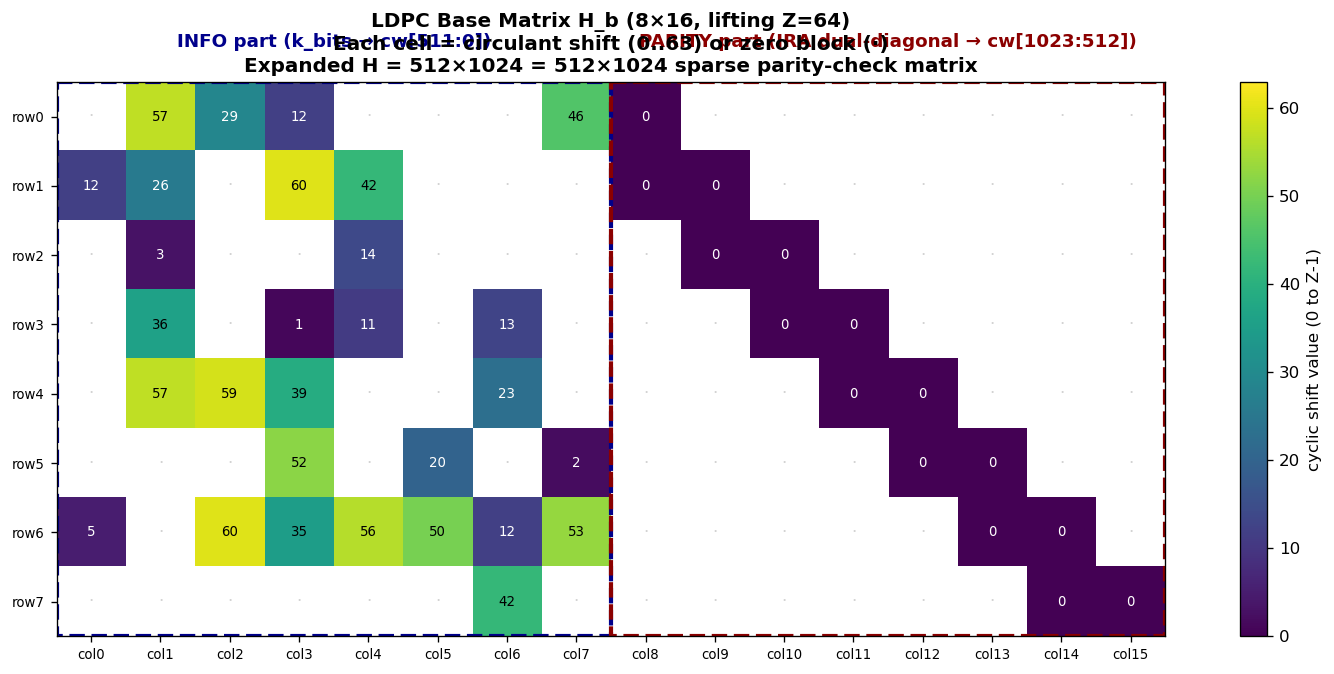
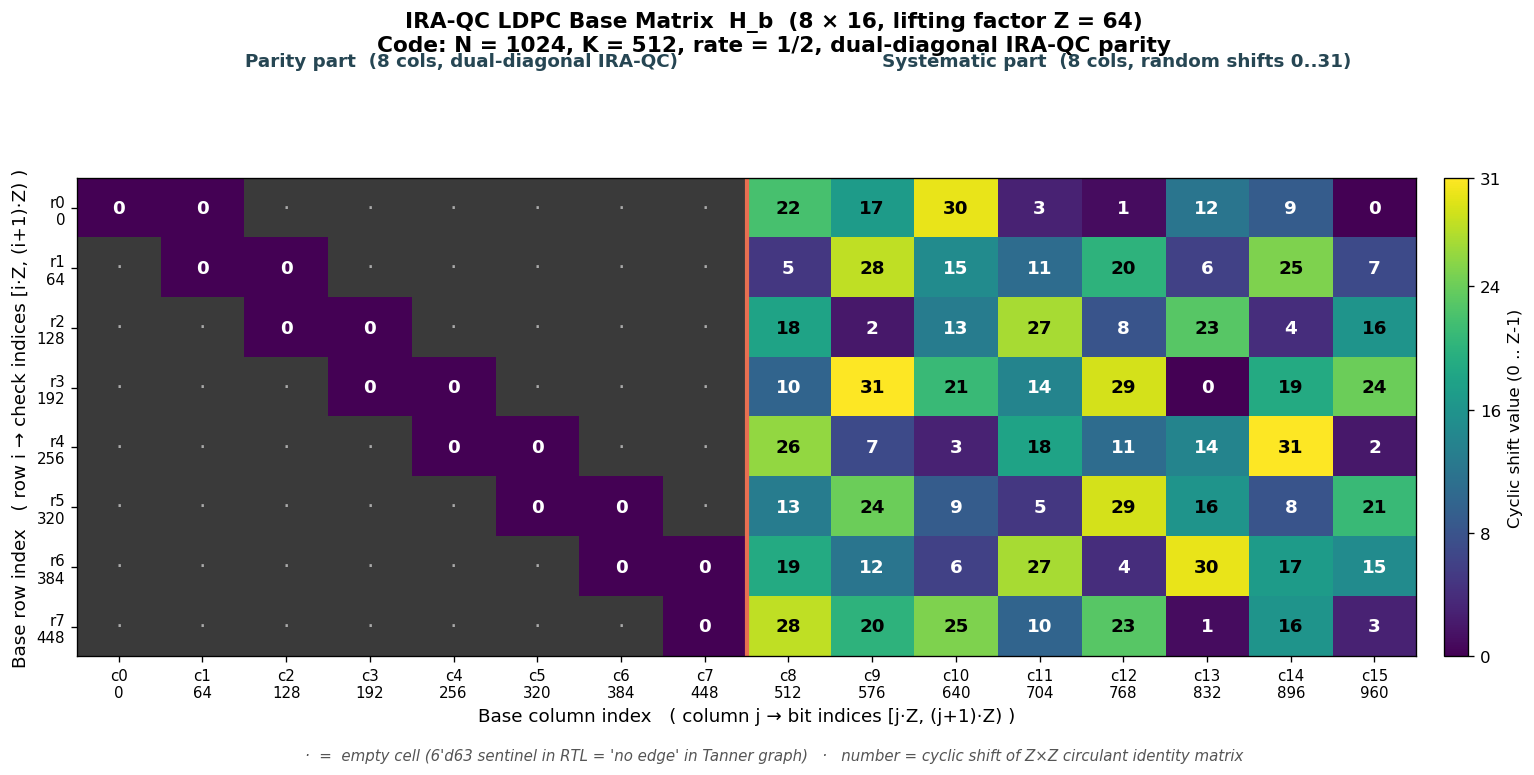
sim: standalone Python scripts for LDPC base matrix + QPSK constellation diagrams
新增独立绘图脚本(取代之前内嵌于 gen_missing_diagrams.py 的版本):

- simulation/plot_ldpc_base_matrix.py
    8 × 16 IRA-QC LDPC 基矩阵 H_b heatmap
    数据严格从 ldpc_decoder.v line 25-51 复制
    Z = 64, N = 1024, K = 512, rate 1/2
    左 8 列 parity (双对角线), 右 8 列 systematic (shifts 0..31)
    79 个有效 cell, 49 个 -1 (空) sentinel

- simulation/plot_qpsk_constellation.py
    固定幅度 QPSK 星座, A = 1/√2 × 2^13 = 5793
    Q1.14 fixed-point, power-normalized E[|s|²] = 1
    Gray code 映射 + 单位功率圆 + 4 个决策区域 + pilot BPSK

两张图 PNG 同步刷新 (微调 title/group header 排版避免重叠)

diff --git a/simulation/plot_qpsk_constellation.py b/simulation/plot_qpsk_constellation.py
@@ -1,0 +1,138 @@
+#!/usr/bin/env python3
+"""
+Plot the fixed-amplitude QPSK constellation used in tx_subcarrier_map.v
+and qpsk_demod.v.
+
+  ─ Power-normalized QPSK: each symbol has unit average power |s|² = 1
+  ─ Fixed-point Q1.14 representation (16-bit signed)
+  ─ Constellation point amplitude  A = 1/√2 × 2^13 = 5793  (matches RTL constant)
+  ─ Pilot symbols: BPSK on real axis (±5793, 0) — same magnitude as data
+  ─ Gray coding: adjacent points differ by 1 bit (so 1-symbol error → 1-bit error)
+
+Reproduces simulation/qpsk_constellation.png.
+"""
+import matplotlib
+matplotlib.use("Agg")
+import matplotlib.pyplot as plt
+import numpy as np
+
+# -----------------------------------------------------------
+# Constellation parameters — match RTL exactly
+# -----------------------------------------------------------
+A = 5793           # = round(1/sqrt(2) * 2^13)
+                   # exact: 1/sqrt(2) * 8192 ≈ 5792.62 → rounded to 5793
+
+# Gray-coded mapping: bit pair (b1, b0) → complex point
+# Convention from tx_subcarrier_map.v / qpsk_mod.v:
+#   b1 b0 → (I, Q)
+#   0  0  → (+A, +A)
+#   0  1  → (+A, -A)
+#   1  0  → (-A, +A)
+#   1  1  → (-A, -A)
+mapping = {
+    "00": ( A,  A),
+    "01": ( A, -A),
+    "10": (-A,  A),
+    "11": (-A, -A),
+}
+
+# Pilot symbols (BPSK on I axis, same magnitude as data)
+pilots = [( A, 0), (-A, 0)]
+
+# -----------------------------------------------------------
+# Plot
+# -----------------------------------------------------------
+fig, ax = plt.subplots(figsize=(9, 9))
+
+# Unit-power circle (the geometric meaning of "power-normalized")
+theta = np.linspace(0, 2*np.pi, 360)
+R = np.sqrt(A**2 + A**2)            # = A * sqrt(2) ≈ 8192 = 2^13
+ax.plot(R*np.cos(theta), R*np.sin(theta),
+        color="#aaaaaa", linewidth=1, linestyle="--", alpha=0.7,
+        label=f"Unit-power circle  R = √2·A = {R:.0f} ≈ 2¹³")
+
+# Axes
+ax.axhline(0, color="black", linewidth=0.6)
+ax.axvline(0, color="black", linewidth=0.6)
+
+# QPSK data points
+COLOR = {
+    "00": "#e76f51",
+    "01": "#e9c46a",
+    "10": "#2a9d8f",
+    "11": "#264653",
+}
+for bits, (i_v, q_v) in mapping.items():
+    ax.scatter(i_v, q_v, s=550, color=COLOR[bits],
+               edgecolors="black", linewidths=2, zorder=4,
+               label=f"{bits} → ({i_v:+d}, {q_v:+d})")
+    # bit-pair label
+    ax.annotate(bits, xy=(i_v, q_v),
+                xytext=(i_v + 600 * (1 if i_v > 0 else -1),
+                        q_v + 600 * (1 if q_v > 0 else -1)),
+                fontsize=18, weight="bold", ha="center",
+                color=COLOR[bits])
+    # numeric coords
+    ax.annotate(f"({i_v:+5d}, {q_v:+5d})",
+                xy=(i_v, q_v),
+                xytext=(i_v, q_v - 1100 * (1 if q_v < 0 else -1)),
+                fontsize=10, ha="center",
+                color="#555")
+
+# Pilot points
+for (i_v, q_v) in pilots:
+    ax.scatter(i_v, q_v, s=300, marker="s",
+               color="white", edgecolors="#9b5de5", linewidths=2.5,
+               zorder=3,
+               label=f"pilot ({i_v:+d}, {q_v:+d})" if (i_v, q_v) == pilots[0] else None)
+
+# Decision regions (light shading)
+for x0, x1, y0, y1, c in [
+    (0, 9000, 0, 9000, "#e76f51"),
+    (0, 9000, -9000, 0, "#e9c46a"),
+    (-9000, 0, 0, 9000, "#2a9d8f"),
+    (-9000, 0, -9000, 0, "#264653"),
+]:
+    ax.fill_between([x0, x1], y0, y1, alpha=0.04, color=c)
+
+# Annotate quadrants
+ax.text(4500, 4500, "Q1\n(b1 b0 = 00)", ha="center", va="center",
+        fontsize=10, alpha=0.5, style="italic")
+ax.text(4500, -4500, "Q4\n(b1 b0 = 01)", ha="center", va="center",
+        fontsize=10, alpha=0.5, style="italic")
+ax.text(-4500, 4500, "Q2\n(b1 b0 = 10)", ha="center", va="center",
+        fontsize=10, alpha=0.5, style="italic")
+ax.text(-4500, -4500, "Q3\n(b1 b0 = 11)", ha="center", va="center",
+        fontsize=10, alpha=0.5, style="italic")
+
+# axes range and ticks
+ax.set_xlim(-9500, 9500); ax.set_ylim(-9500, 9500)
+ax.set_xlabel("In-phase component  I  (16-bit signed Q1.14)", fontsize=11)
+ax.set_ylabel("Quadrature component  Q  (16-bit signed Q1.14)", fontsize=11)
+ax.set_xticks([-A, 0, A])
+ax.set_xticklabels([f"-A=-{A}", "0", f"+A={A}"])
+ax.set_yticks([-A, 0, A])
+ax.set_yticklabels([f"-A=-{A}", "0", f"+A={A}"])
+
+ax.set_title("Fixed-amplitude QPSK constellation  —  tx_subcarrier_map / qpsk_demod\n"
+             f"A = 1/√2 × 2¹³ = {A}  (Q1.14 fixed-point, power-normalized)",
+             fontsize=13, weight="bold", pad=15)
+
+ax.set_aspect("equal")
+ax.grid(True, linestyle=":", alpha=0.5)
+
+# Legend
+ax.legend(loc="lower left", fontsize=8, framealpha=0.9)
+
+# Footer math note
+fig.text(0.5, 0.01,
+         "Power normalization:  E[|s|²] = A² + A² = 2A² = 2·(1/√2)²·2²⁶ = 2²⁶  →  "
+         "scaled unit power 1.0 (in Q1.14 reference)   ·   "
+         "Gray code: adjacent symbols differ by 1 bit",
+         ha="center", fontsize=9, style="italic", color="#555")
+
+plt.tight_layout(rect=[0, 0.03, 1, 1])
+
+OUT = "/home/ysara/fpga_hdl/simulation/qpsk_constellation.png"
+plt.savefig(OUT, dpi=120, bbox_inches="tight")
+print(f"Saved {OUT}")

diff --git a/simulation/plot_ldpc_base_matrix.py b/simulation/plot_ldpc_base_matrix.py
@@ -1,0 +1,120 @@
+#!/usr/bin/env python3
+"""
+Plot the IRA-QC LDPC base matrix H_b used in ldpc_decoder.v.
+
+  ─ Code parameters: N=1024, K=512, M=512, rate=1/2
+  ─ Base matrix M_b × N_b = 8 × 16
+  ─ Lifting factor Z = 64
+  ─ Each cell stores a cyclic-shift value 0..Z-1 (6'd63 = "no edge" sentinel)
+  ─ Left 8 columns: parity part (dual-diagonal + identity, IRA-QC style)
+  ─ Right 8 columns: systematic part (random shifts 0..31)
+
+Reproduces simulation/ldpc_base_matrix.png from the actual RTL data
+(ldpc_decoder.v lines 25-51).
+"""
+import matplotlib
+matplotlib.use("Agg")
+import matplotlib.pyplot as plt
+import numpy as np
+from matplotlib.colors import ListedColormap, BoundaryNorm
+
+# -----------------------------------------------------------
+# Base matrix H_b — copied verbatim from ldpc_decoder.v
+# 6'd63 means "no edge" (empty cell), valid shifts are 0..31
+# -----------------------------------------------------------
+NULL = -1                                # render as "·" / dark grey
+H_b = np.array([
+    # row 0 — cols 0..7 (parity)         cols 8..15 (systematic)
+    [ 0,  0,NULL,NULL,NULL,NULL,NULL,NULL,   22, 17, 30,  3,  1, 12,  9,  0],
+    # row 1
+    [NULL, 0,  0,NULL,NULL,NULL,NULL,NULL,    5, 28, 15, 11, 20,  6, 25,  7],
+    # row 2
+    [NULL,NULL, 0,  0,NULL,NULL,NULL,NULL,   18,  2, 13, 27,  8, 23,  4, 16],
+    # row 3
+    [NULL,NULL,NULL, 0,  0,NULL,NULL,NULL,   10, 31, 21, 14, 29,  0, 19, 24],
+    # row 4
+    [NULL,NULL,NULL,NULL, 0,  0,NULL,NULL,   26,  7,  3, 18, 11, 14, 31,  2],
+    # row 5
+    [NULL,NULL,NULL,NULL,NULL, 0,  0,NULL,   13, 24,  9,  5, 29, 16,  8, 21],
+    # row 6
+    [NULL,NULL,NULL,NULL,NULL,NULL, 0,  0,   19, 12,  6, 27,  4, 30, 17, 15],
+    # row 7
+    [NULL,NULL,NULL,NULL,NULL,NULL,NULL, 0,  28, 20, 25, 10, 23,  1, 16,  3],
+], dtype=int)
+
+M_b, N_b = H_b.shape
+Z = 64
+N = N_b * Z          # 1024
+K = (N_b - M_b) * Z  # 512
+
+print(f"H_b shape: {H_b.shape}, Z={Z}, N={N}, K={K}")
+print(f"valid shifts  : {(H_b != NULL).sum()} / {H_b.size} cells")
+print(f"empty cells   : {(H_b == NULL).sum()}  (left half is sparse parity)")
+
+# -----------------------------------------------------------
+# Plot
+# -----------------------------------------------------------
+fig, ax = plt.subplots(figsize=(13, 6.5))
+
+# Color map: empty → dark grey;  shift value → viridis 0..63
+cmap = plt.cm.viridis.copy()
+cmap.set_under("#3a3a3a")     # color for NULL
+
+vmin, vmax = 0, 31
+im = ax.imshow(np.where(H_b == NULL, vmin - 1, H_b),
+               cmap=cmap, vmin=vmin, vmax=vmax,
+               aspect="auto", interpolation="nearest")
+
+# Annotate each cell
+for i in range(M_b):
+    for j in range(N_b):
+        v = H_b[i, j]
+        if v == NULL:
+            ax.text(j, i, "·", ha="center", va="center",
+                    fontsize=14, color="#aaaaaa")
+        else:
+            color = "white" if v < 16 else "black"
+            ax.text(j, i, f"{v}", ha="center", va="center",
+                    fontsize=11, color=color, weight="bold")
+
+# Vertical separator: parity | systematic
+ax.axvline(7.5, color="#e76f51", linewidth=2.5)
+# Group headers above the matrix (use ax-fraction coords via .text on figure)
+fig.text(0.30, 0.91, "Parity part  (8 cols, dual-diagonal IRA-QC)",
+         ha="center", fontsize=11, color="#264653", weight="bold")
+fig.text(0.72, 0.91, "Systematic part  (8 cols, random shifts 0..31)",
+         ha="center", fontsize=11, color="#264653", weight="bold")
+
+# Axes labels
+ax.set_xticks(range(N_b))
+ax.set_xticklabels([f"c{j}\n{j*Z}" for j in range(N_b)], fontsize=9)
+ax.set_yticks(range(M_b))
+ax.set_yticklabels([f"r{i}\n{i*Z}" for i in range(M_b)], fontsize=9)
+ax.set_xlabel("Base column index   ( column j → bit indices [j·Z, (j+1)·Z) )",
+              fontsize=11)
+ax.set_ylabel("Base row index   ( row i → check indices [i·Z, (i+1)·Z) )",
+              fontsize=11)
+
+# Title + caption
+fig.suptitle(
+    "IRA-QC LDPC Base Matrix  H_b  (8 × 16, lifting factor Z = 64)\n"
+    f"Code: N = {N}, K = {K}, rate = 1/2, dual-diagonal IRA-QC parity",
+    fontsize=13, weight="bold", y=0.98,
+)
+
+# Colorbar
+cbar = plt.colorbar(im, ax=ax, fraction=0.025, pad=0.02)
+cbar.set_label("Cyclic shift value (0 .. Z-1)", fontsize=10)
+cbar.set_ticks([0, 8, 16, 24, 31])
+
+# Footer note
+fig.text(0.5, 0.02,
+         "·  =  empty cell (6'd63 sentinel in RTL = 'no edge' in Tanner graph)   "
+         "·   number = cyclic shift of Z×Z circulant identity matrix",
+         ha="center", fontsize=9, style="italic", color="#555")
+
+plt.tight_layout(rect=[0, 0.04, 1, 0.88])
+
+OUT = "/home/ysara/fpga_hdl/simulation/ldpc_base_matrix.png"
+plt.savefig(OUT, dpi=120, bbox_inches="tight")
+print(f"Saved {OUT}")
